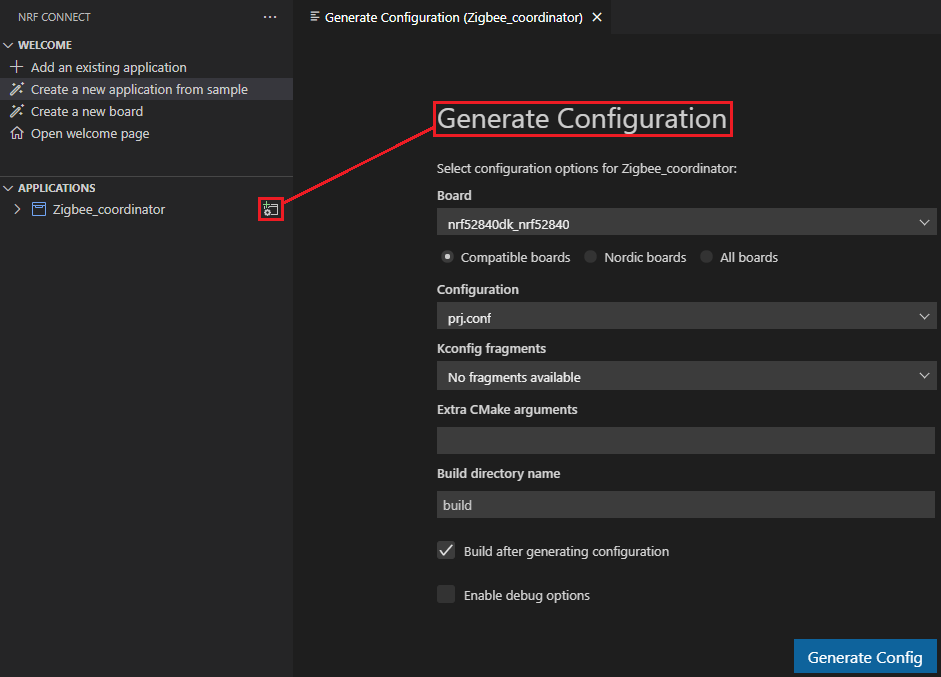
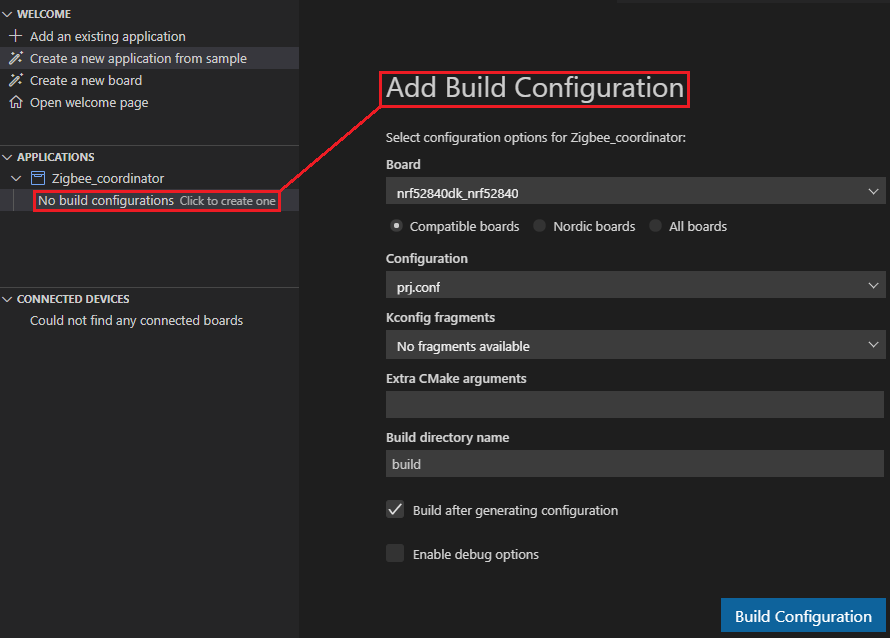
doc: zigbee: update vsc image
Updated an outdated screen from VSC.
NCSDK-12257

diff --git a/doc/nrf/ug_zigbee_qsg.rst b/doc/nrf/ug_zigbee_qsg.rst
@@ -160,15 +160,15 @@ To program the samples, complete the following steps:
 
 #. Generate the network coordinator application:
 
-   a. In the Applications panel, hover with your mouse cursor over the application name and click the :guilabel:`Add Build Configuration` button that appears next to it.
-   #. In the configuration options on the :guilabel:`Generate Configuration` screen, select the board onto which you want to program the sample.
+   a. In the Applications panel, click the :guilabel:`No build configuration - Click to create one` button.
+   #. In the configuration options on the :guilabel:`Add Build Configuration` screen, select the board onto which you want to program the sample.
       See the `Requirements`_ section for the list of available build target names.
       For the purpose of this quick start guide, leave the default values for other options.
 
       .. figure:: images/zigbee_qsg_vsc_generate_config_section.png
          :alt: nRF Connect for Visual Studio Code - Generate Configuration panel
 
-   #. Click :guilabel:`Generate Config`.
+   #. Click :guilabel:`Build Configuration`.
       When the process starts, a Zigbee Coordinator panel appears under the Applications panel.
       The generation process takes some time and you can observe its progress in the :guilabel:`nRF Connect` terminal.
 
